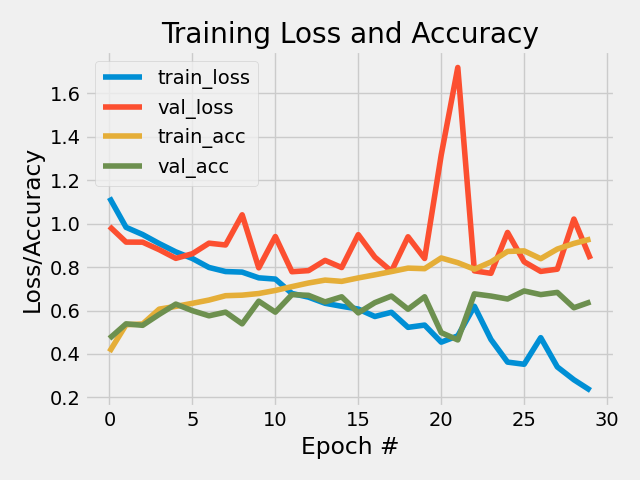
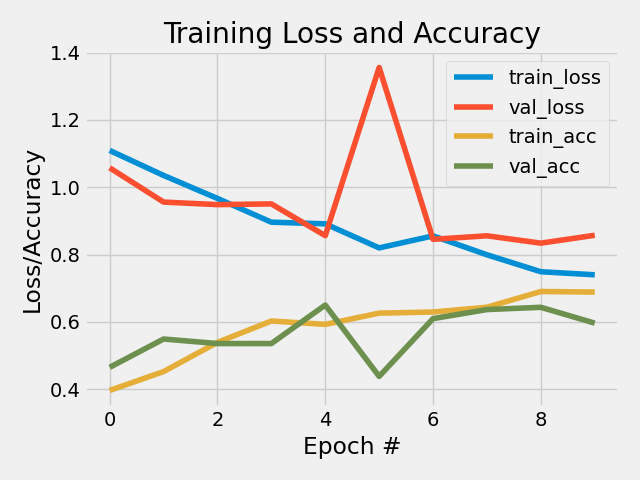
readme, delete sample, add example

diff --git a/utils/cnn_utils.py b/utils/cnn_utils.py
@@ -101,36 +101,65 @@ def preprocess_data(directory, img_dim, names):
     return X_norm, y_binary
 
 
-def save_model_summary(model, output_directory):
+def unique_path(filepath):
+    """Creating unique filepath/filename by incrementing filename, if the filename exists already 
+    
+    Input:
+    - desired filepath
+    Returns:
+    - if path does not exist: desired filepath
+    - if path exists: desired filepath, enumerated
+    """ 
+    # If the path does not exist, keep the original filepath
+    if not os.path.exists(filepath):
+        return filepath
+    
+    # Otherwise, split the path, and append a number that does not exist already, return the new path
+    else:
+        i = 1
+        path, ext = os.path.splitext(filepath)
+        new_path = "{}_{}{}".format(path, i, ext)
+        
+        while os.path.exists(new_path):
+            i += 1
+            new_path = "{}_{}{}".format(path, i, ext)
+            
+        return new_path
+
+
+def save_model_info(model, output_directory, filename_summary, filename_plot):
     """Save model summary in .txt file and plot of model in .png
     
     Input:
     - model: compiled model
     - output_directory: path to output directory
+    - filename_summary: name of file to save summary in
+    - filename_plot: name of file to save visualisation of model
     """
     # Define path fand filename for model summary
-    out_summary = os.path.join(output_directory, "model_summary.txt")
+    out_summary = unique_path(os.path.join(output_directory, filename_summary))
     # Save model summary in defined file
     with open(out_summary, "w") as file:
         with redirect_stdout(file):
             model.summary()
 
     # Define path and filename for model plot
-    out_plot = os.path.join(output_directory, "model_plot.png")
+    out_plot = unique_path(os.path.join(output_directory, filename_plot))
     # Save model plot in defined file
     plot_model(model, to_file = out_plot, show_shapes = True, show_layer_names = True)
     
     
-def save_model_history(history, epochs, output_directory):
+def save_model_history(history, epochs, output_directory, filename):
     """Plotting the model history, i.e. loss/accuracy of the model during training
     
     Input: 
     - history: model history
     - epochs: number of epochs the model was trained on 
     - output_directory: desired output directory
+    - filename: name of file to save history in
     """
     # Define output path
-    out_history = os.path.join(output_directory, "model_history.png")
+    out_history = unique_path(os.path.join(output_directory, filename))
 
     # Visualize history
     plt.style.use("fivethirtyeight")
@@ -147,18 +176,19 @@ def save_model_history(history, epochs, output_directory):
     plt.savefig(out_history)
 
 
-def save_model_report(report, epochs, batch_size, output_directory):
+def save_model_report(report, epochs, batch_size, output_directory, filename):
     """Save report to output directory
     
     Input: 
     - report: model classifcation report
     - output_directory: final output_directory
+    - filename: name of file to save report in
     """
     # Define output path and file for report
-    report_out = os.path.join(output_directory, "classification_report.txt")
+    report_out = unique_path(os.path.join(output_directory, filename))
     # Save report in defined path
     with open(report_out, 'w', encoding='utf-8') as file:
-        file.writelines(f"Classification report for CNN trained with {epochs} epochs and batchsize of {batch_size}:")
+        file.writelines(f"Classification report for CNN trained with {epochs} epochs and batchsize of {batch_size}:\n")
         file.writelines(report) 
     
 

diff --git a/src/cnn_impressionist.py b/src/cnn_impressionist.py
@@ -25,7 +25,7 @@ import argparse
 # Utility functions
 sys.path.append(os.path.join(".."))
 from utils.cnn_utils import (get_min_dim, preprocess_data,
-                             save_model_summary, save_model_history, save_model_report)
+                             save_model_info, save_model_history, save_model_report)
              
 
 # CNN Model
@@ -48,10 +48,10 @@ def main():
                     required = False, default = ["Matisse", "Gauguin", "VanGogh"])
     # Input option for path to training data
     ap.add_argument("-train", "--train_directory", type = str, help = "Path to the training data directory",
-                    required = False, default = "../data/impressionist/training/training/")
+                    required = False, default = "../data/impressionist/training/")
     # Input option for path to test data
     ap.add_argument("-test", "--test_directory", type = str, help = "Path to the test data directory",
-                    required = False, default = "../data/impressionist/validation/validation/")
+                    required = False, default = "../data/impressionist/validation/")
     # Input option option for number of epoch
     ap.add_argument("-e", "--epochs", type = int, help = "The number of epochs to train the model",
                     required = False, default = 10)
@@ -122,16 +122,16 @@ def main():
     
     # Train CNN: use training data to learn weights, using defined batch_size and epochs
     history = model.fit(X_train, y_train, validation_data = (X_test, y_test), 
-                        batch_size = batch_size, epochs = epochs, verbose = 10)
+                        batch_size = batch_size, epochs = epochs, verbose = 1)
     
     # Evaluate CNN: generate predictions and compare to true labels
     predictions = model.predict(X_test, batch_size)
     report = classification_report(y_test.argmax(axis=1), predictions.argmax(axis=1), target_names = names)
     
     # Save model summary, model history and classification report
-    save_model_summary(model, output_directory)
-    save_model_history(history, epochs, output_directory)
-    save_model_report(report, epochs, batch_size, output_directory)
+    save_model_info(model, output_directory, "model_summary.txt", "model_plot.png")
+    save_model_history(history, epochs, output_directory, "model_history.png")
+    save_model_report(report, epochs, batch_size, output_directory, "model_report.txt")
     
     # Print classification report
     print(f"Classification report:\n {report}")

diff --git a/README.md b/README.md
@@ -1,45 +1,46 @@
 # 5: CNN on Cultural Image Data
 
-> [Description](#description) | [Methods](#methods) | [Repository Structure](#repository-structure) | [Usage](#usage) | [Results and Disucssion](#results-and-discussion) |
+[Description](#description) | [Methods](#methods) | [Repository Structure](#repository-structure) | [Usage](#usage) | [Results and Disucssion](#results-and-discussion) |
 
 ## Description
 
 > This project related to Assignment 5: Multi-class Classification of Cultural Image Data
 
-The purpose of this project was to classify impressionist paintings by their artist. Developing a tool to classify paintings can be used to e.g. sort a large collection of images or to predict the artist of a painting where the artist is unknown. Further, it may also be relevant in cultural research, e.g. to investigate similarities and differences between paintings. For this multi-class classification, a convolutional neural network (CNN) with a LeNet architecture was build. I chose to only investigate paintings of three artists, namely Matisse, Gauguin and VanGogh. 
+The aim of this project was to classify complex, cultural image data. Specifically, a dataset of impressionist paintings was used to investigate whether it is possible to classify paintings by their artist. This may be relevant to e.g. sort a large collection of images or to predict the artist of an image where the artist is unknown. In this project, I chose to only investigate paintings of three artists, namely *Matisse, Gaugin and VanGogh*. 
+
+For the multi-class classification task, a Convolutional Neural Network (CNN) with a LeNet Architecture was build, trained and evaluated. Convolutional Neural Networks are especially useful for visual analytics, as they can take into account the three channels of coloured images, and identify more complex features (through convolutional kernels), while reducing dimensionality of the feature space (through pooling layers).  
  
 
 ## Methods
-### Data 
-The data used to train and evaluate the model was extracted from [kaggle](https://www.kaggle.com/delayedkarma/impressionist-classifier-data). This original dataset contains 400 training and 100 test images for 10 artists (Pisarro, Hassam, Monet, Degas, Matisse, Singer-Sargent, Cezanne, Gauguin, Renoir, van Gogh). To reduce processing time, I chose to only investigate three of these artists in this project, namely: Matisse, Gaugin, VanGogh. 
-
-### Preprocessing
-To train the CNN, it was required to resize all images to be of same size. To preserve as much as possible, the smallest dimension of the smallest image was found and used to resize all images to a square of this dimension. Further, images were saved in arrays and normalised. The corresponding labels of the images (i.e. their artists) were extracted, and binarised to be used in the CNN. 
-
+### Data and Preprocessing
+The data used to train and evaluate the model was extracted from [Kaggle](https://www.kaggle.com/delayedkarma/impressionist-classifier-data). This original dataset contains 400 training and 100 test images for 10 artists (Pisarro, Hassam, Monet, Degas, Matisse, Singer-Sargent, Cezanne, Gauguin, Renoir, van Gogh). To reduce processing time, I chose to only investigate 3 of these artists in this project, namely Matisse, Gaugin, Van Gogh. 
+To train the CNN, it was required to resize all images to be of same size. To preserve as much as possible, the smallest dimension of the smallest image was found and used to resize all images to a square of this dimension. For this project, this meant all images were reseized to 277x277. Further, images were saved in arrays and normalised. The corresponding labels of the images (i.e. their artists) were extracted, and binarised to be used in the CNN. 
+ 
 ### Convolutional Neural Network with LeNet Architecture
-Convolutional Neural Networks are especially useful for visual analytics, as they can take into account the three channels of coloured images, and identify more complex features (through convolutional kernels), while reducing dimensionality (through pooling layers). A LeNet CNN consists of two sets of  *Convolutional Layer - Activation Layer - Pooling layer*, and a fully connected layer, to uses the extracted features to predict the possible lables (here: artists). A summary and visualisation of the model architecture can be found in the out/ directory: [model summary](https://github.com/nicole-dwenger/cdsvisual-cnn-impressionist/blob/master/out/model_summary.png), [model plot](https://github.com/nicole-dwenger/cdsvisual-cnn-impressionist/blob/master/out/model_plot.png)
+A Convolutional Neural Network with a LeNet Architecture consists of an input layer, followed by 2 sets of **Convolutional Layer - Activation Layer - Pooling layer**, a flattening layer, two fully connected layers and finally a softmax classifier to predict the artist. The model was trained on a batch size of 50, once over 10 epochs and once over 15 epochs. As optimiser, stochastic gradient descent with a learning rate of 0.1 was used. The [model summary](https://github.com/nicole-dwenger/cdsvisual-cnn-impressionist/blob/master/out/model_summary.png) and a [visualisation of the model]((https://github.com/nicole-dwenger/cdsvisual-cnn-impressionist/blob/master/out/model_plot.png)) used for this project can be found in the out/ directory in this repository.
 
 
 ## Repository Structure
 
+Note, that the data directory only contains empty folders. The data is too large to be stored on GitHub. The directory only serve to illustrate how the data should be stored to run the script. Directions for downloading the data are provided below. 
+
 ```
 |-- data/                        # Directory containing data
-    |-- impressionist_sample/    # Example dataset to test functionality of script
-        |-- training/            # Training data
-            |-- Matisse/         # Subdirectory for artist 1
-                |-- img1
-                |-- img2
-                |-- ...
-            |-- Gauguin/         # Subdirectory for artist 2
-            |-- Van Gogh/        # Subdirectory for artist 3
+    |-- impressionist_example/   # Example directory of how data should be structured
+        |-- training/            # Example training data directory
+            |-- Matisse/         # Example subdirectory for artist 1
+            |-- Gauguin/         # Example subdirectory for artist 2
+            |-- Van Gogh/        # Example subdirectory for artist 2
             |-- ...
-        |-- validation/          # Validation data, with same structure as training data directory
+        |-- validation/          # example validation data directory 
 
-|-- out/                         # Output directory
+|-- out/                         # Output directory, with example output
     |-- model_summary.txt        # Summary of model architecture
-    |-- model_plot.png           # Visualisation of model architectur
-    |-- model_history.png        # Plot of training history of model
-    |-- model_report.txt         # Classification report
+    |-- model_plot.png           # Visualisation of model architecture
+    |-- model_history.png        # Plot of training history of model (over 10 epochs)
+    |-- model_history_1.png      # Plot of training history of model (over 15 epochs)
+    |-- model_report.txt         # Classification report (over 10 epochs)
+    |-- model_report_1.txt.      # Classification report (over 15 epochs)
 
 |-- src/                         # Directory containing main script for classification
     |-- cnn_impressionist.py     # Main script for preparing data, training and evaluating CNN
@@ -62,10 +63,10 @@ To run the scripts, I recommend cloning this repository and installing necessary
 
 ```bash
 # cloning the repository
-git clone https://github.com/nicole-dwenger/cdsvisual-cnn-artists.git
+git clone https://github.com/nicole-dwenger/cdsvisual-cnn-impressionist.git
 
 # move into directory
-cd cdsvisual-cnn-artists/
+cd cdsvisual-cnn-impressionist/
 
 # install virtual environment
 bash create_venv.sh
@@ -75,13 +76,12 @@ source venv_cnn/bin/activate
 ```
 
 ### 2. Data
-If you wish to reproduce the results of this project, I recommend downloading the dataset of impressionist paintings from  [kaggle](https://www.kaggle.com/delayedkarma/impressionist-classifier-data), storing it in the `data` directory and adjusting the  `-train` and `-test` parameters accordingly. The `-train` and `-test` parameters should specify the directory containing the subdirectories names by the artist (i.e. in the repository structure above this would be `../data/impressionist_subset/training/` and `../data/impressionist_subset/validation/`). I have trained the model on the entire set of training and testing images for the three chosen artists. 
-If you simply want to run the script to test its functionality, I have provided a sample of images in the `impressionist_sample` directory. 
+The data was too large to be stored in this repository. If you wish to reproduce the results of this project, I recommend downloading the *training* and *validation* folders of the impressionist paintings dataset from [kaggle](https://www.kaggle.com/delayedkarma/impressionist-classifier-data), and saving these in `data/impressionist`. Optimally, the structure should be identical to the structure illustrated in the repository structure displayed above. When running the script, you can adjust the `-train` and `-test` parameters to represent the directories containing the training and validation data, i.e. i.e. in the repository structure above this would be `../data/impressionist_example/training/` and `../data/impressionist_example/validation/`. For this project, I have trained the model on the entire set of 400 training and 100 testing images for the three chosen artists, i.e. Matisse, Gauguin, VanGogh. 
 
 
 ### 3. Running the Script 
 
-The script `cnn_impressionist.py` preprocesses the data, trains the model and evaluates the model. The script should be called from the `src/` directory. Example commands are provided below. 
+The script `cnn_impressionist.py` preprocesses the data, trains the model and evaluates the model. The script should be called from the `src/` directory:
 
 __Example:__
 ```bash
@@ -89,10 +89,10 @@ __Example:__
 cd src/
 
 # running script with default parameters
-python3 cnn_impressionist.py
+python3 cnn_impressionist.py 
 
 # running script with specified parameters
-python3 cnn_impressionist.py -a Monet VanGogh Matisse -e 20
+python3 cnn_impressionist.py -train data/training/ -test data/validation/ -a Monet VanGogh Matisse -e 20
 ```
 
 __Parameters__:
@@ -100,39 +100,41 @@ __Parameters__:
    List of artist names for which the paintings should be included in the classifier. Should be at least 3, and should their 
    corresponding train and test images should be stored in a directory names by the artist in `training` and `validation`. 
    
-- *-train, --train_directory : str, optional, default:* `../data/impressionist_subset/training/`\
-   Path to directory containing training data. In this directory, images should be stored in subdirectories, one for each artist. 
+- *-train, --train_directory : str, optional, default:* `../data/impressionist/training/`\
+   Path to directory containing training data. In this directory, images should be stored in subdirectories, one for each artist.
 
-- *-test, --test_directory : str, optional, default:* `../data/impressionist_subset/validation/`\
-   Path to directory containing training data. In this directory, images should be stored in subdirectories, one for each artist. 
+- *-test, --test_directory : str, optional, default:* `../data/impressionist/validation/`\
+   Path to directory containing training data. In this directory, images should be stored in subdirectories, one for each artist.
 
 - *-e, --epochs : int, optional, default:* `10`\
    Number of epochs to train the model. 
 
-- *-b, --batch_size : int, optional, default:* `30`\
+- *-b, --batch_size : int, optional, default:* `50`\
    Size of batch to train model. 
 
 __Output:__
 - *model_summary.txt*\
-    Summary of model architecture and number of parameters.
+    Summary of model architecture and number of parameters. If the file exists already, a number will be added to the filename to avoid overwriting. 
 
 - *model_plot.png*\
-   Visualisation of model architecture, i.e. layers. 
+   Visualisation of model architecture, i.e. layers. If the file exists already, a number will be added to the filename to avoid overwriting. 
 
 - *model_history.png*\
-   Training history of model, i.e. training and validation loss and accuracy over epochs. 
+   Training history of model, i.e. training and validation loss and accuracy over epochs. If the file exists already, a number will be added to the filename to avoid overwriting. 
 
 - *model_report.txt*\
-   Classification report of the model. Also printed to command line. 
+   Classification report of the model. If the file exists already, a number will be added to the filename to avoid overwriting. Also printed to command line. 
 
 ## Results and Discussion
 
-The classification report indicates, that the model, which was trained for 30 epochs with a batch size of 30, achieved an weighted F1 score of 0.64 when classifying paintings from  Matisse, Gauguin and VanGogh. The plot of the model history indicates, that the accuracy for the training increases over epochs, while the loss decreases. However, there is a lot of variability and noise in the validation loss and accuracy. This might indicate, that the model is overfitted on the training data, so that even though it becomes better at classifying the training data, it does not improve on classifying the testing data. This could potentially be reduced by using drop out layers, regularisation or data augmentation. 
+Outputs of the model can be found in the `out/` directory of this repository. The classification report of the model trained over 10 epochs indicated a weighted F1 score of 0.59, while the model trained over 15 epochs led to a weighted F1 score of 0.51, when classfying paintings of Matisse, Gauguin and VanGogh. 
 
-__Model History Plot:__
+Looking at the model history, it seems that the model trained over 15 epochs (displayed on the left) started overfitting on the training data, as the accuracy decreases for the test data, while it keeps increasing for the training data. Thus, in early stopping after 10 epochs (displayed on the right) could prevent this overfitting, and might thus lead to a higher F1 score for the model trained over 10 epochs. 
 
-<img src="https://github.com/nicole-dwenger/cdsvisual-cnn-impressionist/blob/master/out/model_history.png" alt="plot" width="400"/>
+<img src="https://github.com/nicole-dwenger/cdsvisual-cnn-impressionist/blob/master/out/model_history_1.png" alt="plot" width="200"/>
+<img src="https://github.com/nicole-dwenger/cdsvisual-cnn-impressionist/blob/master/out/model_history.png" alt="plot" width="200"/>
 
+The recall scores for the model trained over 10 epochs indicate, a higher recall score for Van Gogh (0.87) compared to Matisse (0.45) and Gaugin (0.46). This suggests, that the model was better at finding all paintings, which were actually Van Gogh paintings, compared to the other two. However, it seems that this came at the cost of precision, as Van Gogh has a lower precision score (0.49) than the reamining to (Matisse: 0.75, Gauguin: 0.77), indicating that out of all the paintings predicted to be van Gogh only 49% were actually from Van Gogh.
 
 
 
